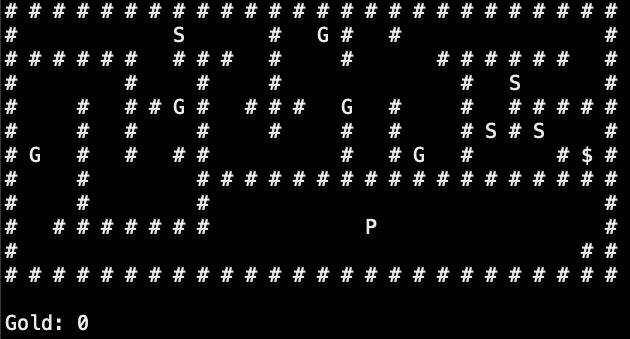
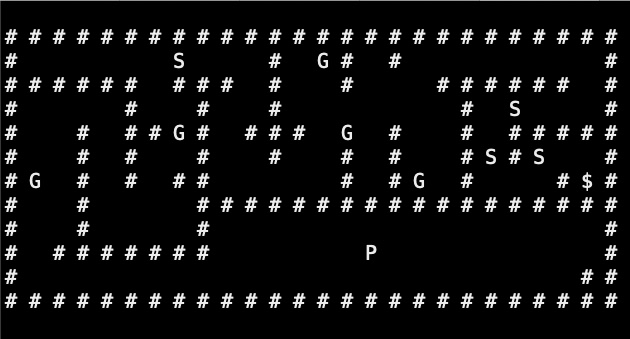
Update image

diff --git a/06_game/game.py b/06_game/game.py
@@ -34,7 +34,7 @@ class Game:
         # Determines which graphics are printed.
         # Defaults to "ascii", or text
         # Change to "emoji" for icons if your OS supports it.
-        self.graphics = Graphics("emoji", self)
+        self.graphics = Graphics("ascii", self)
 
         # This icon will frame the edges of the map.
         self.border_icon = self.graphics.get_border_icon()
